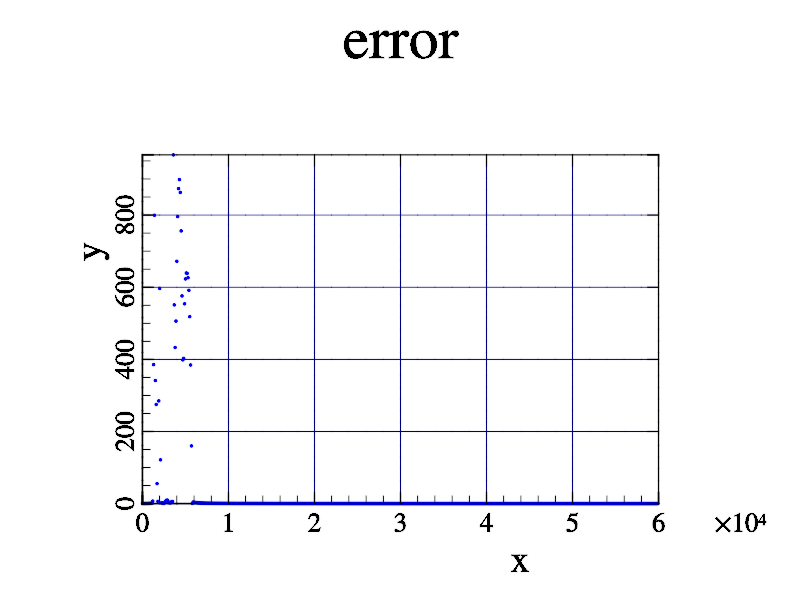
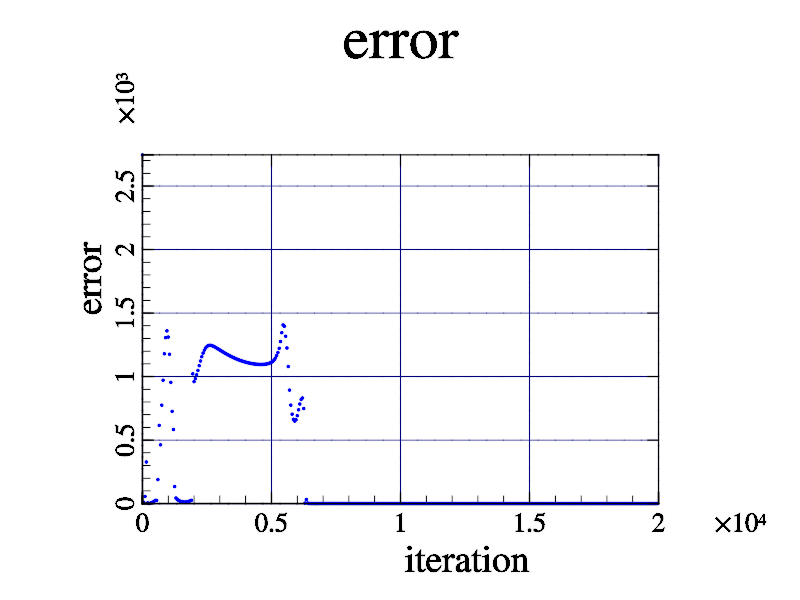
fix bug : hd not clean , change plot axis

diff --git a/src/neural.cpp b/src/neural.cpp
@@ -80,26 +80,33 @@ void nn::test(){
 
 }
 
+void nn::clear_dels(){
+	hdels = zeros(input_num+1, hidden_num+1); //hidden delta
+	odels = zeros(hidden_num+1, output_num); //output delta
+	ods = zeros(output_num);
+	hds = zeros(hidden_num+1);
+}
+
 void nn::cal_del(){
 	//output to hidden
 	for(int i=0; i<output_num; ++i){
-		od.at(i) = (de[i] - oo[i]) * dactivation(os[i]);
+		od(i) = (de(i) - oo(i)) * dactivation(os(i));
 		for(int j=0; j<hidden_num+1; ++j){
-			odel.at(j,i) =
-				learning_rate * od.at(i) * ho[j];
-			//cout << i << ',' << j << ':' <<odel.at(j,i) << endl;
+			odel(j,i) =
+				learning_rate * od(i) * ho(j);
 		}
 	}
 	//hidden to input
+	hd = zeros(hidden_num+1);
 	for(int i=0; i<hidden_num+1; ++i){
 		for(int k=0; k<output_num; ++k){
-			hd.at(i) += od.at(k)*output.at(i,k);
+			hd(i) += od(k)*output(i,k);
 		}
-		hd.at(i) *= dactivation(hs[i]);
+		hd(i) *= dactivation(hs(i));
 		for(int j=0; j<input_num+1; ++j)
 		{
-			hdel.at(j,i) =
-				learning_rate * hd.at(i) * input[j];
+			hdel(j,i) =
+				learning_rate * hd(i) * input(j);
 		}
 	}
 
@@ -114,20 +121,14 @@ void nn::wupdate(){
 void nn::showsd(){
 	double sod=0, shd=0;
 	for(int i=0; i<output_num; ++i)
-		sod += abs(ods[i])*1000;
+		sod += abs(ods(i))*1000;
 	for(int i=0; i<hidden_num+1; ++i)
-		shd += abs(hds[i])*1000;
+		shd += abs(hds(i))*1000;
 	cout<< "error sum at output = " << setw(8) << sod
 		<< " at hidden = " << setw(8) << shd << endl;
 	e.push_back(sod);
 }
 
-void nn::clear_dels(){
-	hdels = zeros(input_num+1, hidden_num+1); //hidden delta
-	odels = zeros(hidden_num+1, output_num); //output delta
-	ods = zeros(output_num);
-	hds = zeros(hidden_num+1);
-}
 
 void nn::train(int iteration){
 	for(int j=0; j<iteration; ++j){
@@ -155,7 +156,8 @@ void nn::train(int iteration){
 		showd();
 		showdw();
 */
-		if(j%100 == 0){
+		if(j%50 == 0){
+		//if(false){
 			cout << "i = " << setw(5) << j << ' ';
 			showsd();
 		}
@@ -163,9 +165,9 @@ void nn::train(int iteration){
 		wupdate();
 	}
 	showd();
-/*
 	showw();
 	showdw();
+/*
 */
 }
 

diff --git a/src/main.cpp b/src/main.cpp
@@ -106,8 +106,8 @@ double drawError(nn& n, int iteration, string title)
 	gr.Title(title.c_str());
 	gr.Light(true);
 	gr.Axis(); gr.Grid(); gr.Box();
-	gr.Label('x',"x",0.5);
-	gr.Label('y',"y",0.5);
+	gr.Label('x',"iteration",0.5);
+	gr.Label('y',"error",0.5);
 
 	char flag[10] = "b. ";
 
@@ -123,10 +123,12 @@ double drawError(nn& n, int iteration, string title)
 }
 
 int main(int argc,char* argv[]){
+	/*
 	for(int i = -20; i<=20; i+=4)
 		cout<< i << " : a = " << setw(13) << logistic(i)
 			<< " a'= " << setw(13) << dlogistic(i) << endl;
-	//return 0;
+	return 0;
+	*/
 	string path = argv[1];
 	nn n;
 	if(argc != 4){

diff --git a/src/neural.hpp b/src/neural.hpp
@@ -4,7 +4,7 @@
 #include "sample.hpp"
 
 #define input_num 2
-#define hidden_num 30
+#define hidden_num 5
 #define output_num 2
 #define dlearning_rate 0.2
 
